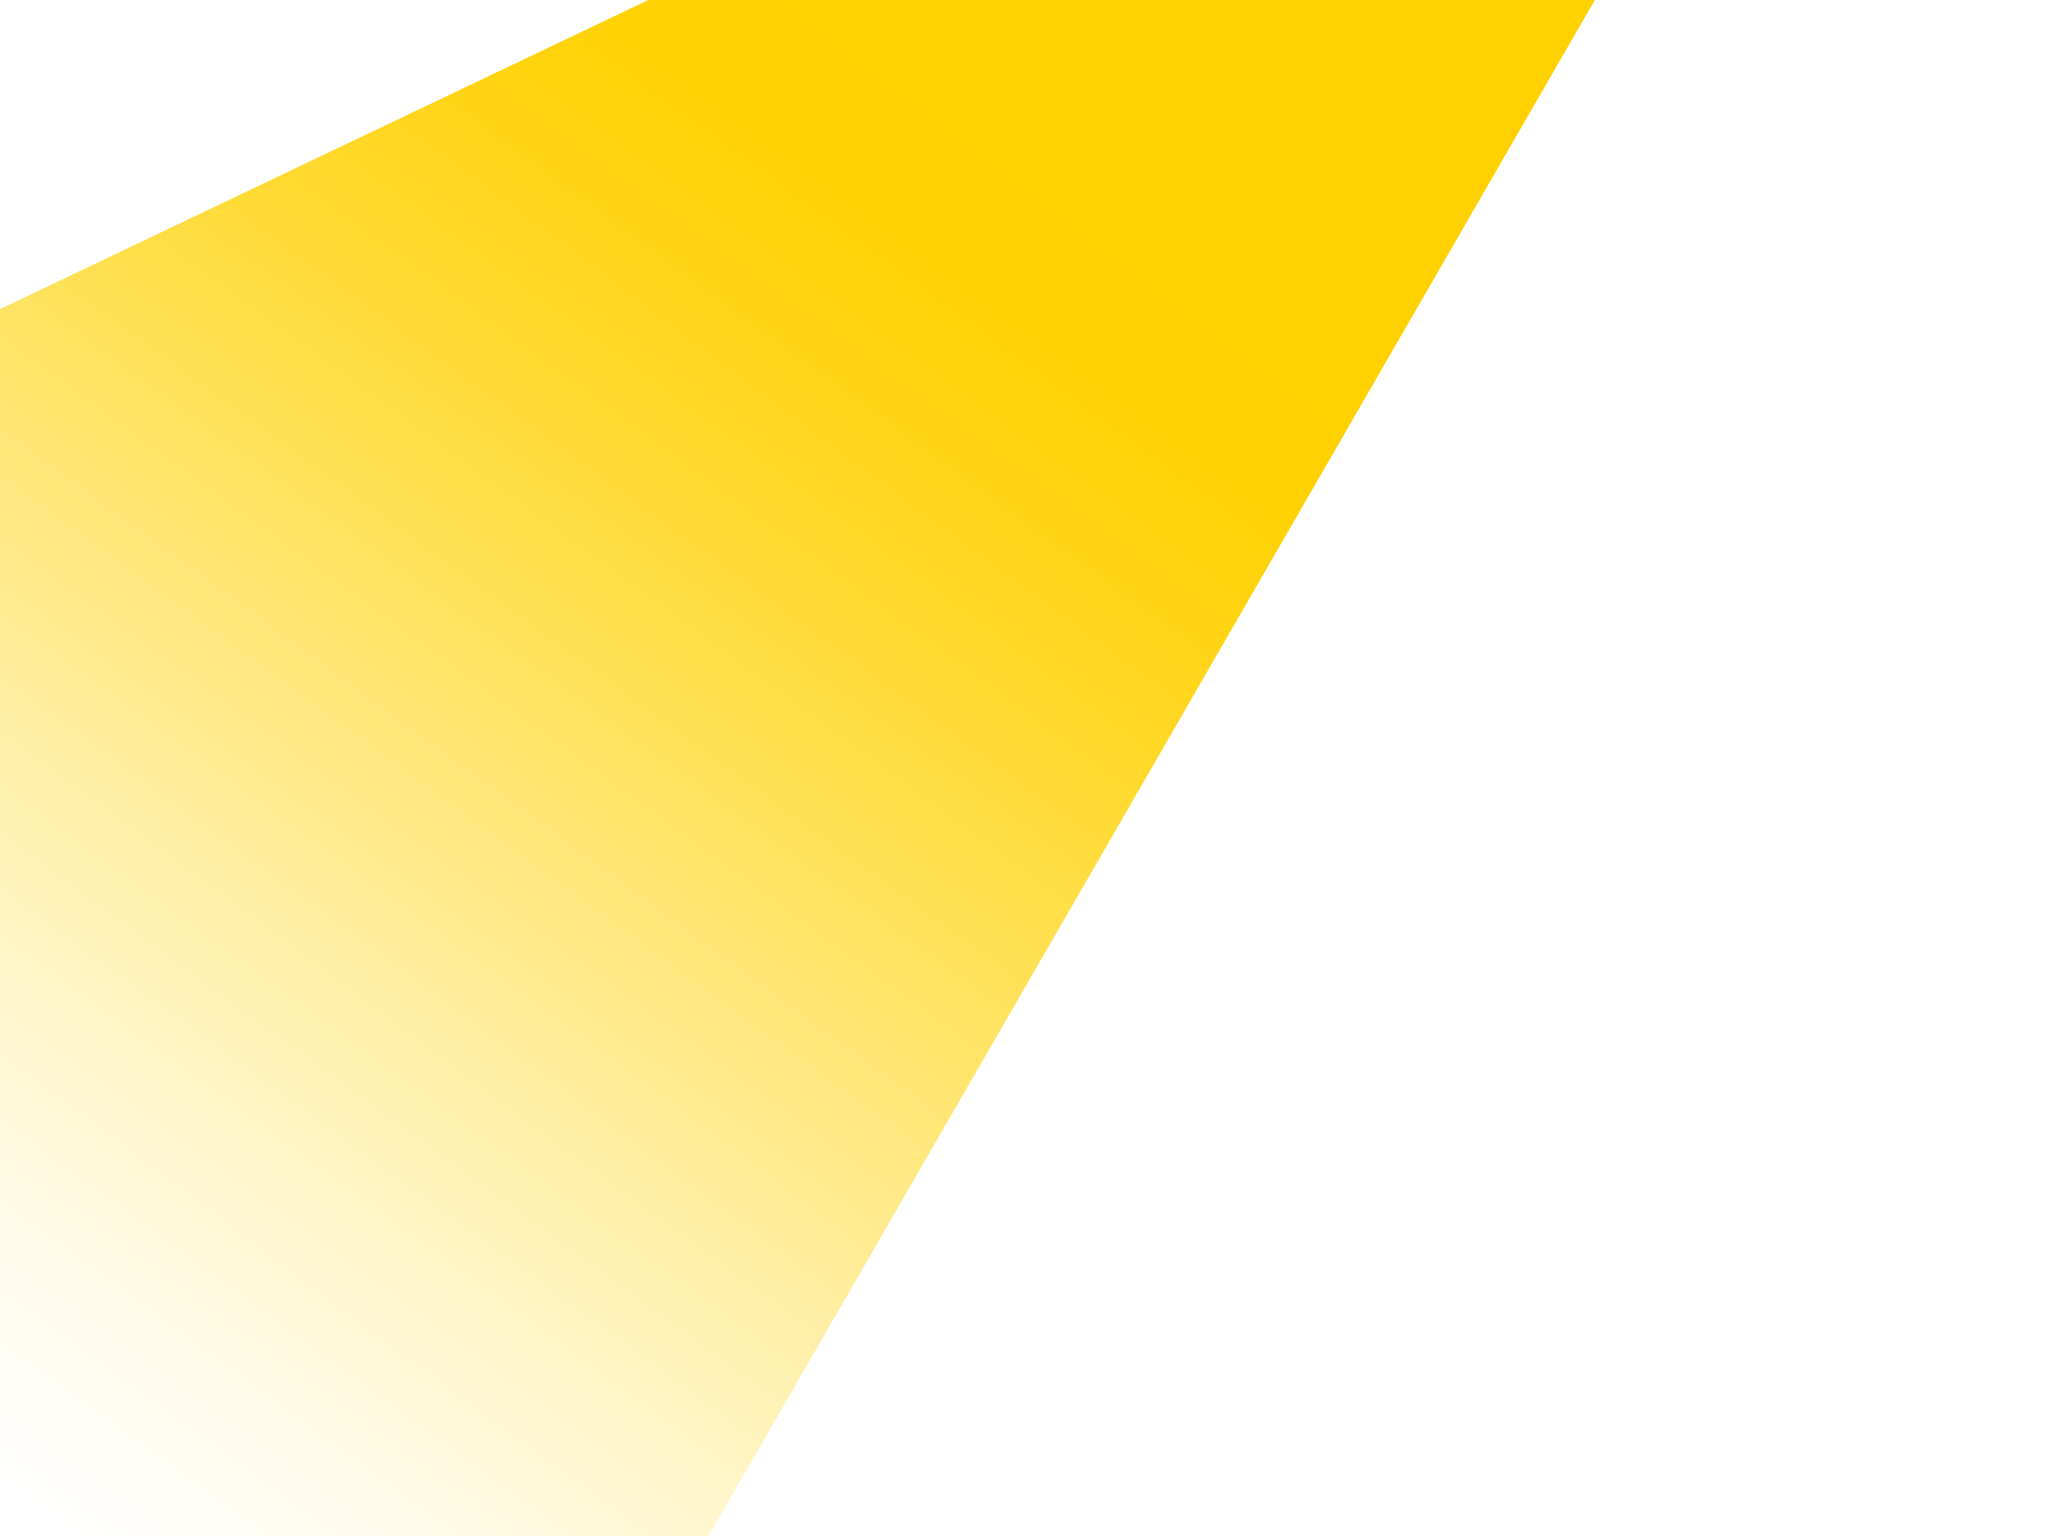
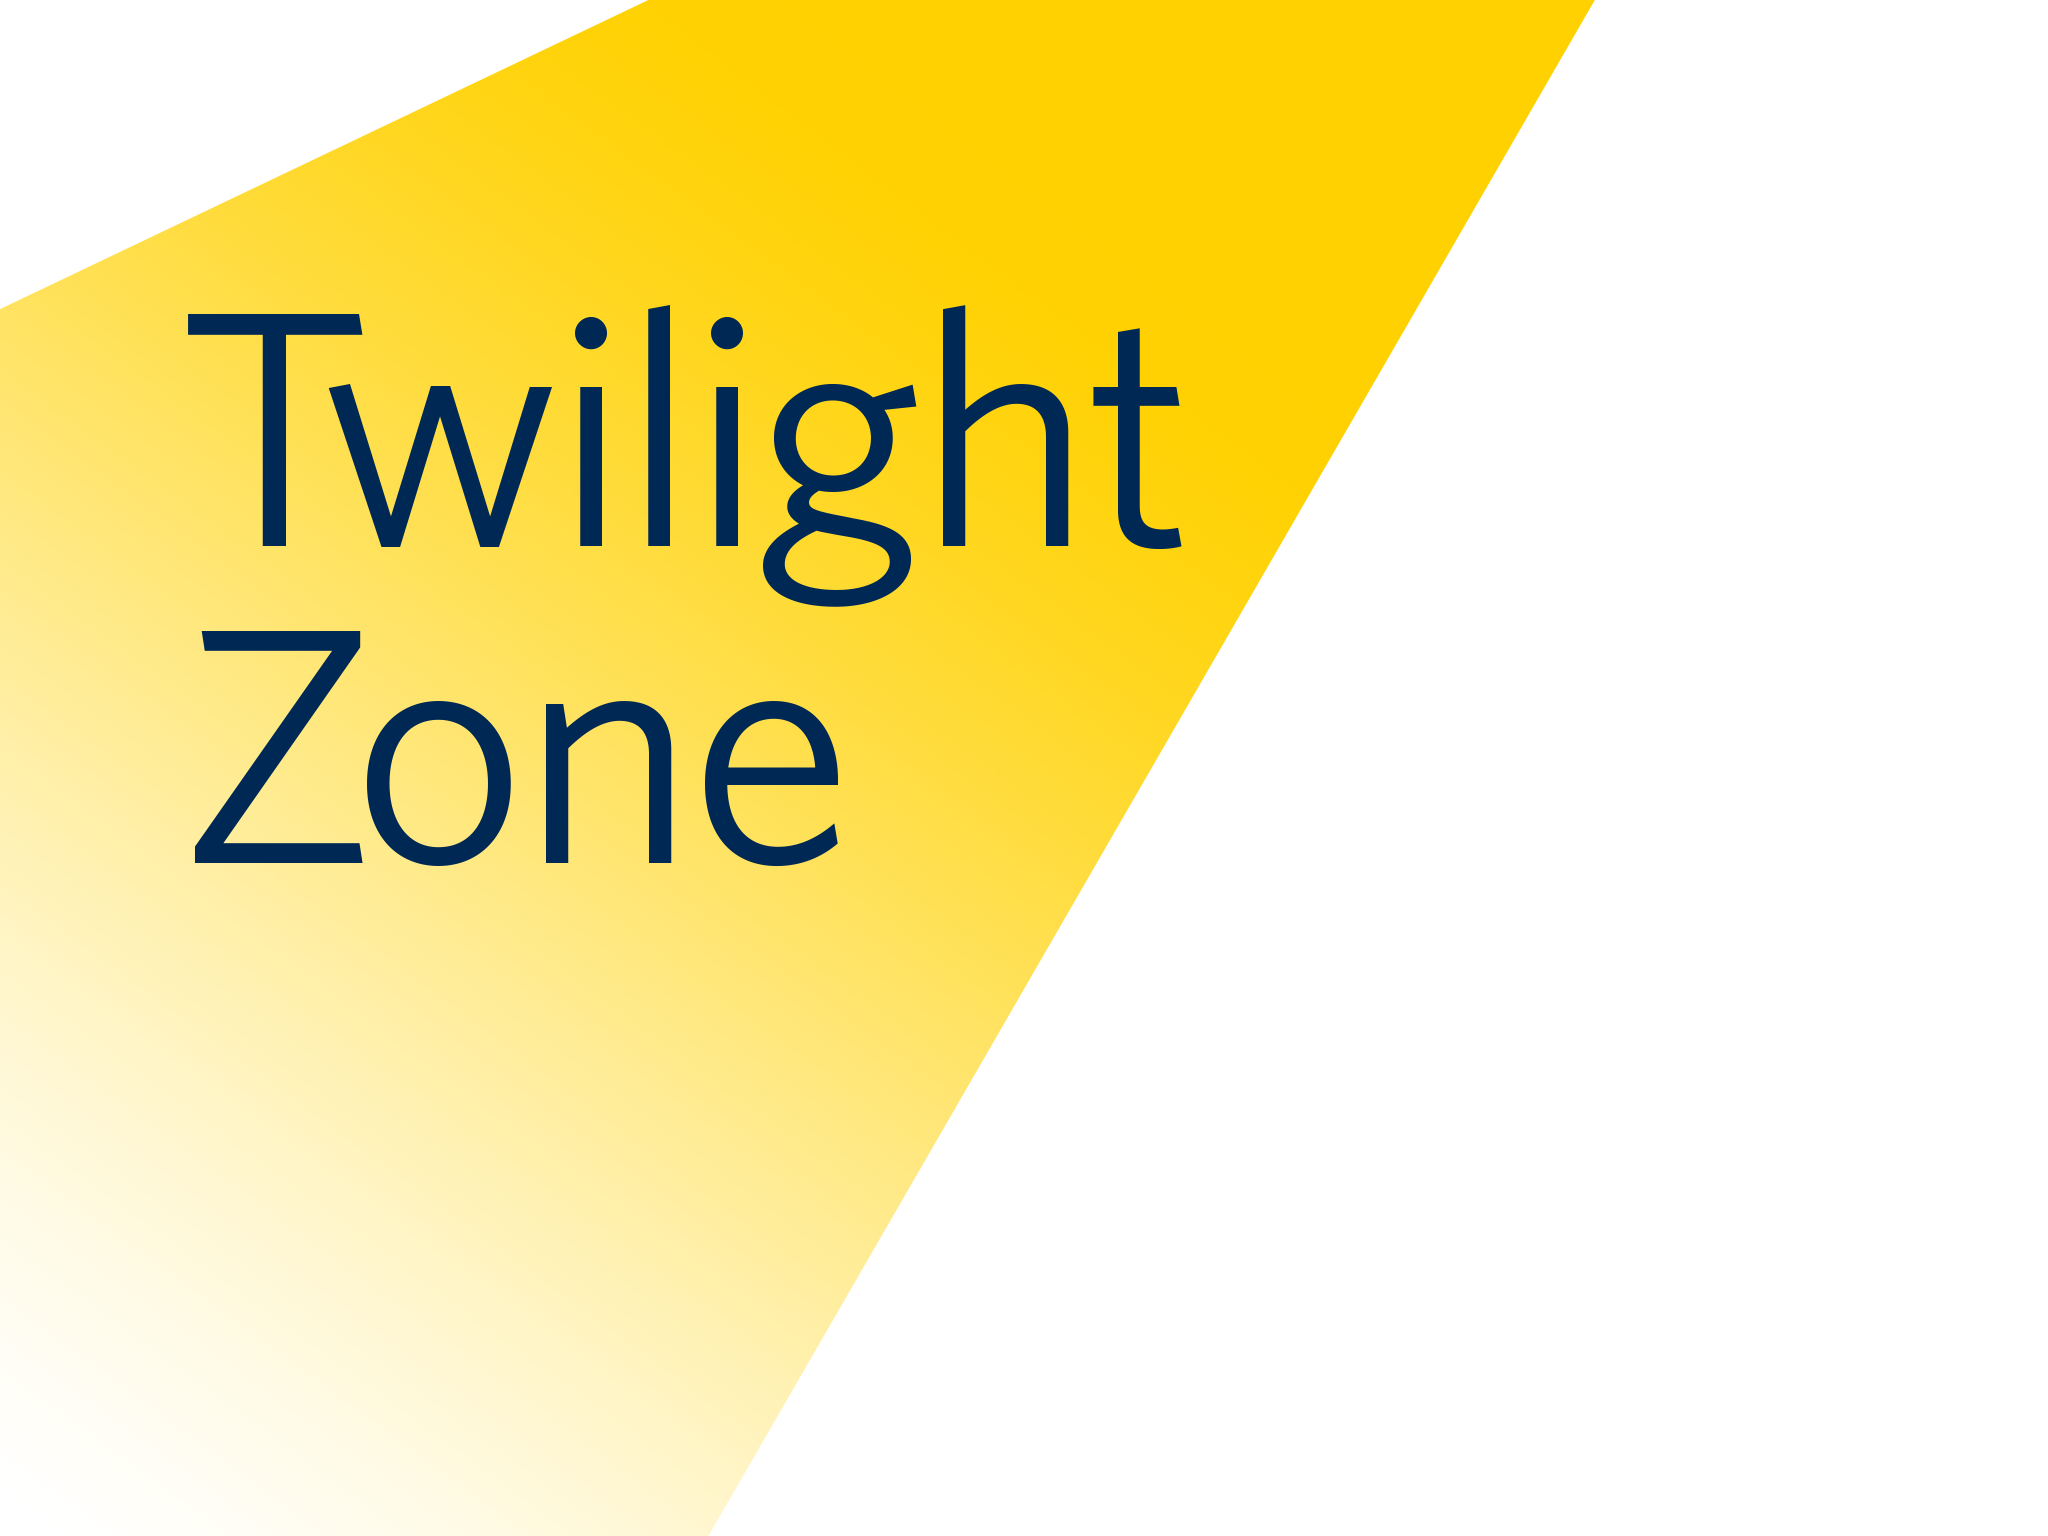
some twilight zone theme css tweaks

Changed region(s): [[0.0938, 0.1875, 0.5938, 0.4062], [0.0938, 0.4062, 0.4062, 0.5625]]

diff --git a/preview/ipad/sass/global.scss b/preview/ipad/sass/global.scss
@@ -746,17 +746,23 @@ body {
 			@include background-size(cover);
 
 			h1 {
-				line-height: 150px !important;
-				width: 75% !important;
-				color: $twilight-zone-background !important;
-				letter-spacing: -10px !important;
-				padding-top: 40px;
+				// line-height: 160px !important;
+				// width: 75% !important;
+				// color: $twilight-zone-background !important;
+				// letter-spacing: -10px !important;
+				// padding-top: 50px;
+
+				// &:first-letter {
+				// 	letter-spacing: -28px;
+				// }
+
+				visibility: hidden;
 			}
 
 			h2 {
 				line-height: 1 !important;
-				padding-top: 50px;
-				padding-left: 450px;
+				padding-top: 80px;
+				padding-left: 480px;
 			}
 		}
 

diff --git a/preview/ipad/stylesheets/global.css b/preview/ipad/stylesheets/global.css
@@ -1408,19 +1408,15 @@ body #thumbnails .page {
 }
 /* line 748, ../sass/global.scss */
 .theme-162 body .title-slide h1 {
-  line-height: 150px !important;
-  width: 75% !important;
-  color: #002855 !important;
-  letter-spacing: -10px !important;
-  padding-top: 40px;
+  visibility: hidden;
 }
-/* line 756, ../sass/global.scss */
+/* line 762, ../sass/global.scss */
 .theme-162 body .title-slide h2 {
   line-height: 1 !important;
-  padding-top: 50px;
-  padding-left: 450px;
+  padding-top: 80px;
+  padding-left: 480px;
 }
-/* line 763, ../sass/global.scss */
+/* line 769, ../sass/global.scss */
 .theme-162 body .field_exhibit_or_theme {
   color: #00b5e2;
 }

diff --git a/preview/ipad/index.html b/preview/ipad/index.html
@@ -7,6 +7,7 @@
 		<meta name="viewport" content="width=device-width, initial-scale=1.0, user-scalable=no, maximum-scale=1.0, minimal-ui" />
 		<meta name="apple-touch-fullscreen" content="yes" />
 		<meta name="apple-mobile-web-app-capable" content="yes" />
+		<meta name="apple-mobile-web-app-status-bar-style" content="black-translucent" />  
 
 		<link rel="stylesheet" href="//cloud.typography.com/6161652/615924/css/fonts.css" />
 		<link rel="stylesheet" href="stylesheets/flexslider.css" />
